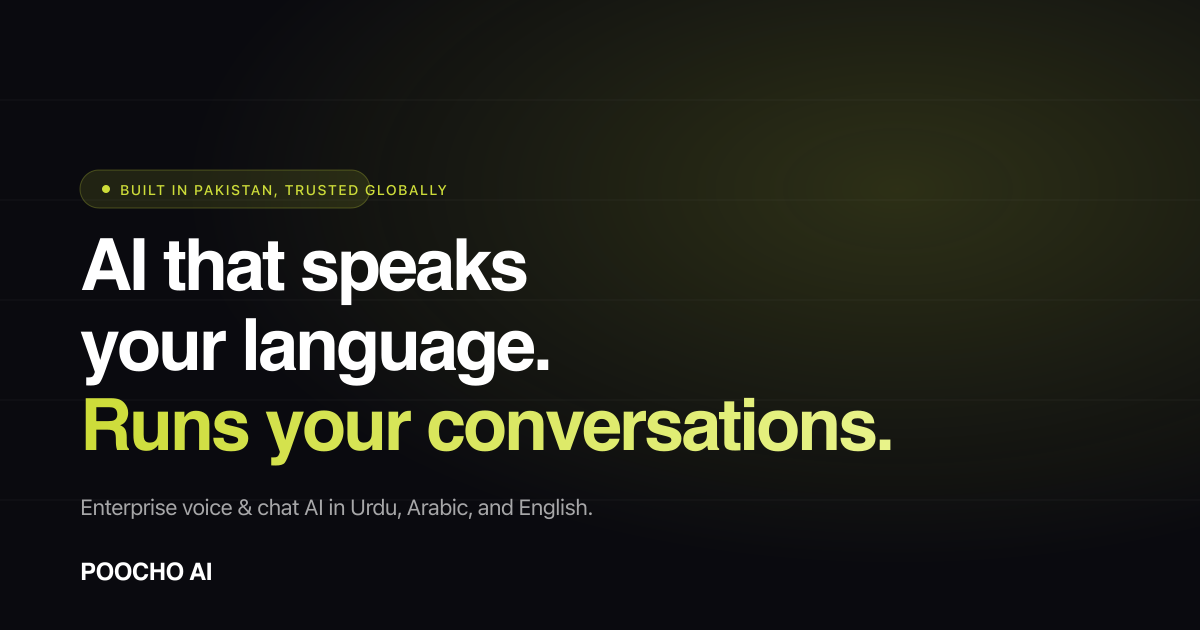
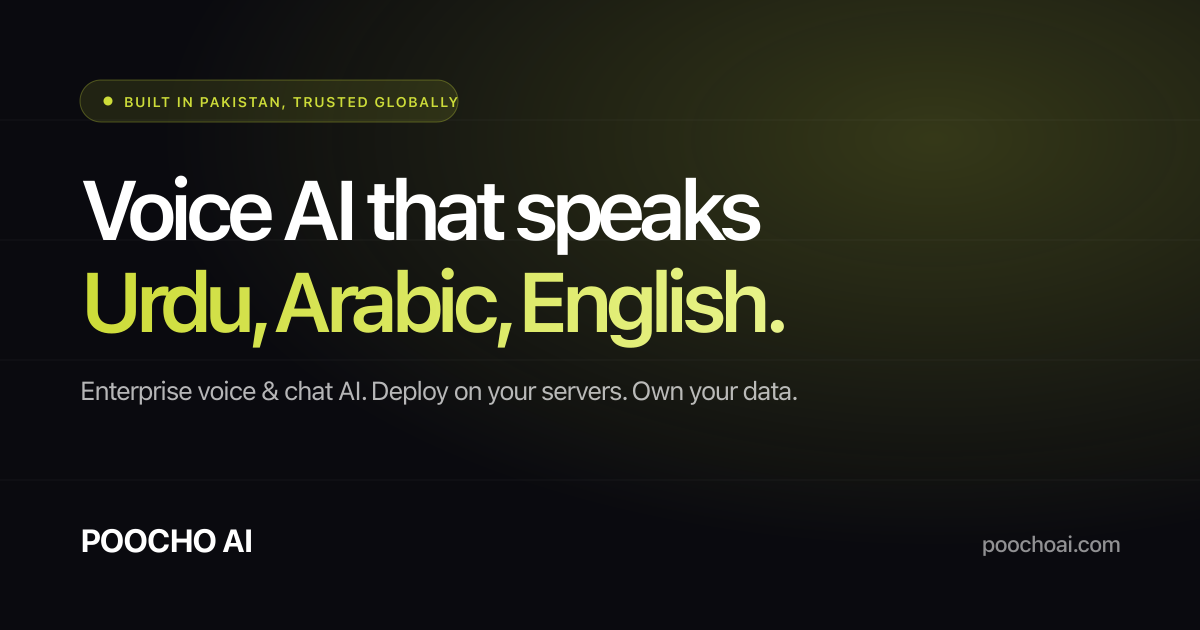
Redesign OG (link-preview) image so the first line is complete + readable
Old design wrapped the hero text as:
  Line 1: 'AI that speaks'        ← grammatically incomplete
  Line 2: 'your language.'
  Line 3: 'Runs your conversations.'

When WhatsApp / Twitter / iMessage crop the preview on smaller phones,
viewers see only 'AI that speaks' — meaningless out of context.

New design uses two complete lines:
  Line 1: 'Voice AI that speaks'  ← clear product category, stands alone
  Line 2: 'Urdu, Arabic, English.' (lime accent — the differentiator)

Plus a single-line subtitle, top trust pill, POOCHO AI wordmark and
poochoai.com URL. Cleaner hierarchy, scans in 1 second at thumbnail size.

Also bumps og:image and twitter:image URLs to ?v=2 to bust WhatsApp /
Facebook / Slack OG caches — without this, the old preview can stick
for up to 7 days.

diff --git a/index.html b/index.html
@@ -16,14 +16,14 @@
     <meta property="og:url" content="https://poochoai.com/">
     <meta property="og:title" content="Poocho AI — Enterprise Voice & Chat AI">
     <meta property="og:description" content="Native Urdu, Arabic, and English understanding. Deploy on your servers. Own your data.">
-    <meta property="og:image" content="https://poochoai.com/og-image.png">
+    <meta property="og:image" content="https://poochoai.com/og-image.png?v=2">
     <meta property="og:image:width" content="1200">
     <meta property="og:image:height" content="630">
     <meta property="og:site_name" content="Poocho AI">
     <meta name="twitter:card" content="summary_large_image">
     <meta name="twitter:title" content="Poocho AI — Enterprise Voice & Chat AI">
     <meta name="twitter:description" content="Native Urdu, Arabic, and English understanding. Deploy on your servers.">
-    <meta name="twitter:image" content="https://poochoai.com/og-image.png">
+    <meta name="twitter:image" content="https://poochoai.com/og-image.png?v=2">
 
     <!-- Icons -->
     <link rel="icon" type="image/png" href="favicon-96x96.png" sizes="96x96">
